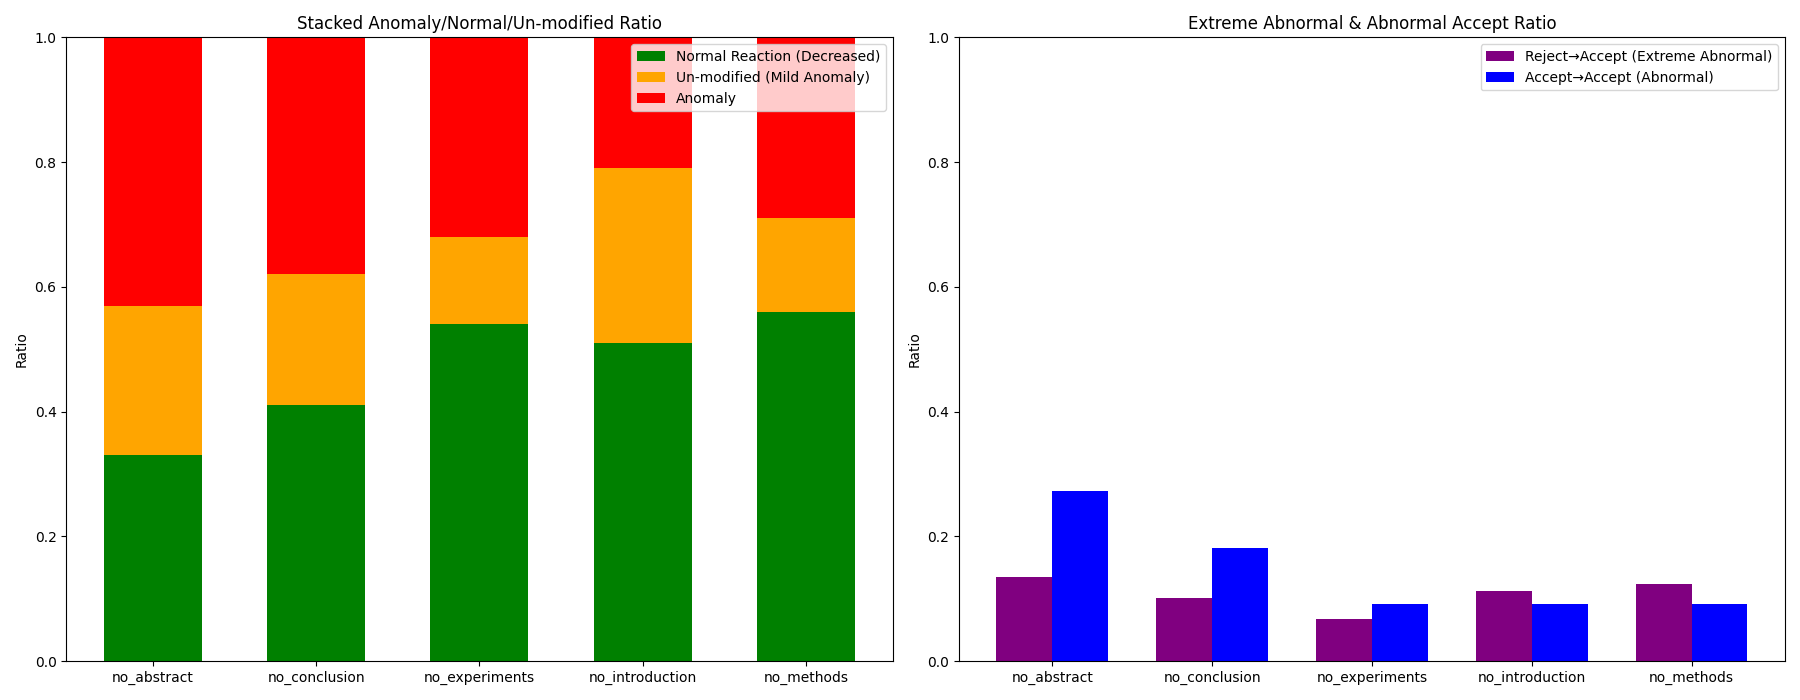
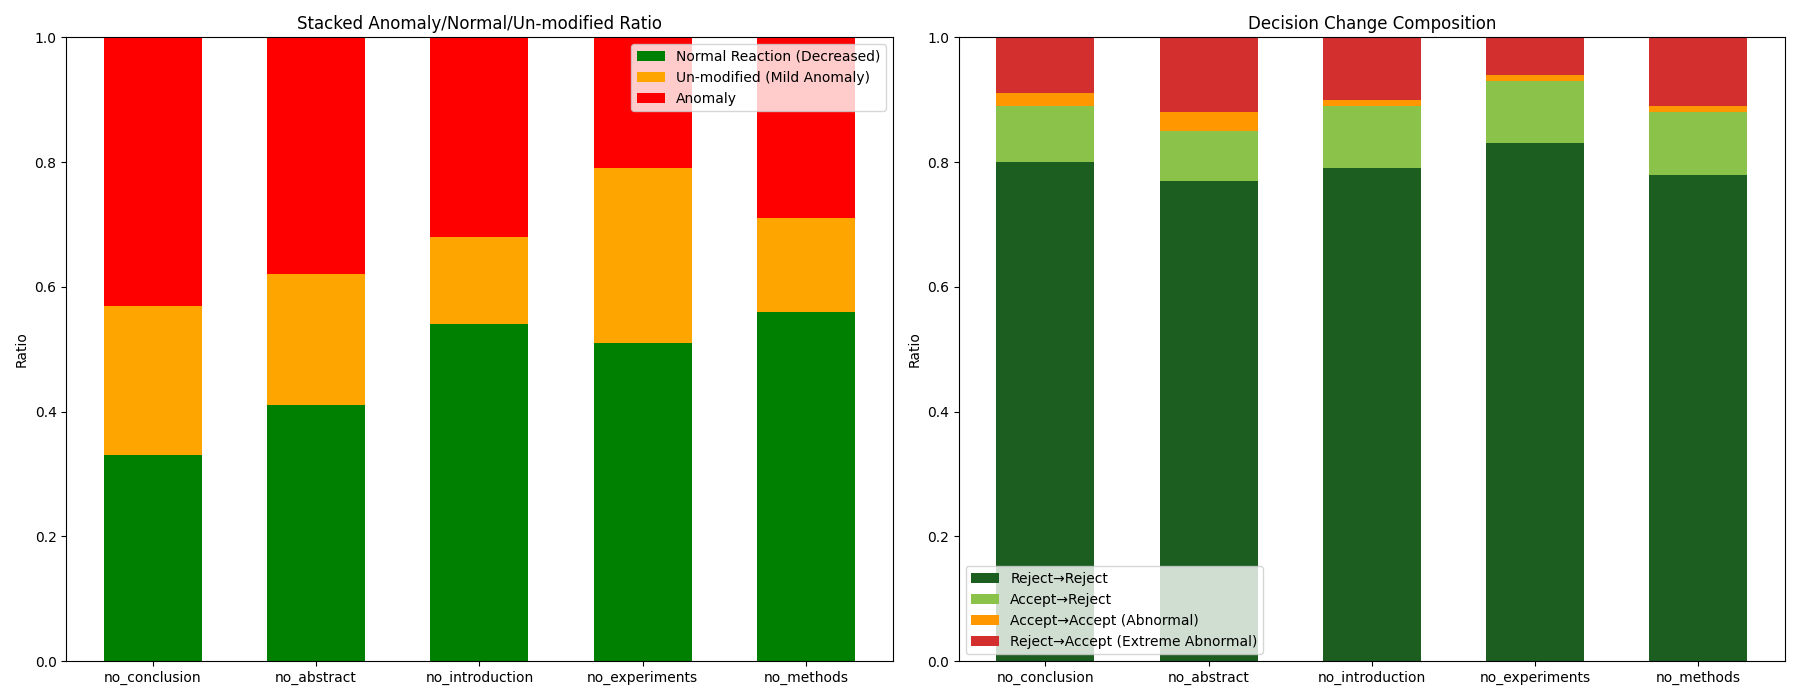
add project metadata, dependency files, analysis outputs, and documentation for attack evaluation and variant dataset processing

Changed region(s): [[0.5289, 0.0, 0.9956, 0.99], [0.1556, 0.96, 0.4044, 0.99], [0.0622, 0.96, 0.1244, 0.99]]

diff --git a/scripts/anomaly_ratio_stacked_bar.py b/scripts/anomaly_ratio_stacked_bar.py
@@ -122,12 +122,12 @@ with open(jsonl_path, 'r', encoding='utf-8') as f:
 df_dec = pd.DataFrame(rows)
 df_dec = df_dec[df_dec['rating'].notnull()]
 
-# 统计每种变体的 Reject->Accept 和 Accept->Accept
+# 统计每种变体的决策变化构成（re2re/ac2re/ac2ac/re2ac）
 variant_order = sorted(df_dec['variant_type'].unique(), key=lambda x: (x != 'original', x))
-extreme_abnormal_counts = {v: 0 for v in variant_order if v != 'original'}  # Reject->Accept
-abnormal_accept_counts = {v: 0 for v in variant_order if v != 'original'}    # Accept->Accept
-total_reject = {v: 0 for v in variant_order if v != 'original'}
-total_accept = {v: 0 for v in variant_order if v != 'original'}
+decision_change_counts = {
+    v: {'re2re': 0, 'ac2re': 0, 'ac2ac': 0, 're2ac': 0, 'total': 0}
+    for v in variant_order if v != 'original'
+}
 extreme_abnormal_cases = []
 abnormal_accept_cases = []
 
@@ -140,54 +140,68 @@ for base_id, group in df_dec.groupby('base_paper_id'):
         vt = row['variant_type']
         if vt == 'original':
             continue
-        # Reject->Accept
-        if orig_dec == 'Reject':
-            total_reject[vt] += 1
-            if row['decision'] == 'Accept':
-                extreme_abnormal_counts[vt] += 1
-                extreme_abnormal_cases.append({
-                    'base_paper_id': base_id,
-                    'variant_type': vt,
-                    'orig_decision': orig_dec,
-                    'variant_decision': row['decision'],
-                    'rating': row['rating']
-                })
-        # Accept->Accept
-        if orig_dec == 'Accept':
-            total_accept[vt] += 1
-            if row['decision'] == 'Accept':
-                abnormal_accept_counts[vt] += 1
-                abnormal_accept_cases.append({
-                    'base_paper_id': base_id,
-                    'variant_type': vt,
-                    'orig_decision': orig_dec,
-                    'variant_decision': row['decision'],
-                    'rating': row['rating']
-                })
+        var_dec = row['decision']
+        if orig_dec == 'Reject' and var_dec == 'Reject':
+            decision_change_counts[vt]['re2re'] += 1
+        elif orig_dec == 'Accept' and var_dec == 'Reject':
+            decision_change_counts[vt]['ac2re'] += 1
+        elif orig_dec == 'Accept' and var_dec == 'Accept':
+            decision_change_counts[vt]['ac2ac'] += 1
+            abnormal_accept_cases.append({
+                'base_paper_id': base_id,
+                'variant_type': vt,
+                'orig_decision': orig_dec,
+                'variant_decision': var_dec,
+                'rating': row['rating']
+            })
+        elif orig_dec == 'Reject' and var_dec == 'Accept':
+            decision_change_counts[vt]['re2ac'] += 1
+            extreme_abnormal_cases.append({
+                'base_paper_id': base_id,
+                'variant_type': vt,
+                'orig_decision': orig_dec,
+                'variant_decision': var_dec,
+                'rating': row['rating']
+            })
+        else:
+            continue
+        decision_change_counts[vt]['total'] += 1
 
-# 计算比例
-extreme_abnormal_ratio = []
-abnormal_accept_ratio = []
-for vt in variant_order:
-    if vt == 'original':
-        continue
-    total_r = total_reject[vt]
-    total_a = total_accept[vt]
-    extreme_abnormal_ratio.append(extreme_abnormal_counts[vt]/total_r if total_r else 0)
-    abnormal_accept_ratio.append(abnormal_accept_counts[vt]/total_a if total_a else 0)
+# 计算比例（分母为该变体下全部有效样本）
+non_original_variants = [vt for vt in variant_order if vt != 'original']
+labels = [vt for vt in severity_order if vt in non_original_variants] + \
+         [vt for vt in non_original_variants if vt not in severity_order]
+re2re_ratio = []
+ac2re_ratio = []
+ac2ac_ratio = []
+re2ac_ratio = []
+for vt in labels:
+    total = decision_change_counts[vt]['total']
+    if total == 0:
+        re2re_ratio.append(0)
+        ac2re_ratio.append(0)
+        ac2ac_ratio.append(0)
+        re2ac_ratio.append(0)
+    else:
+        re2re_ratio.append(decision_change_counts[vt]['re2re']/total)
+        ac2re_ratio.append(decision_change_counts[vt]['ac2re']/total)
+        ac2ac_ratio.append(decision_change_counts[vt]['ac2ac']/total)
+        re2ac_ratio.append(decision_change_counts[vt]['re2ac']/total)
+
+# 兼容后续组合图中原变量名
+extreme_abnormal_ratio = re2ac_ratio
+abnormal_accept_ratio = ac2ac_ratio
 
 # 绘图
-labels = [vt for vt in variant_order if vt != 'original']
-bar_width = 0.35
-x = np.arange(len(labels))
+bar_width = 0.6
 fig, ax = plt.subplots(figsize=(10,6))
-rects1 = ax.bar(x-bar_width/2, extreme_abnormal_ratio, bar_width, label='Reject→Accept (Extreme Abnormal)', color='purple')
-rects2 = ax.bar(x+bar_width/2, abnormal_accept_ratio, bar_width, label='Accept→Accept (Abnormal)', color='blue')
+ax.bar(labels, re2re_ratio, bar_width, label='Reject→Reject', color='#1b5e20')  # dark green
+ax.bar(labels, ac2re_ratio, bar_width, bottom=re2re_ratio, label='Accept→Reject', color='#8bc34a')  # light green
+ax.bar(labels, ac2ac_ratio, bar_width, bottom=np.array(re2re_ratio)+np.array(ac2re_ratio), label='Accept→Accept (Abnormal)', color='#ff9800')  # orange
+ax.bar(labels, re2ac_ratio, bar_width, bottom=np.array(re2re_ratio)+np.array(ac2re_ratio)+np.array(ac2ac_ratio), label='Reject→Accept (Extreme Abnormal)', color='#d32f2f')  # red
 ax.set_ylabel('Ratio')
 ax.set_ylim(0,1)
-ax.set_title('Extreme Abnormal (Reject→Accept) and Abnormal Accept (Accept→Accept) Ratio by Variant Type')
-ax.set_xticks(x)
-ax.set_xticklabels(labels)
+ax.set_title('Decision Change Composition by Variant Type')
 ax.legend()
 plt.tight_layout()
 plt.savefig(f'{outdir}/extreme_abnormal_accept_ratio_by_variant.png')
@@ -208,15 +222,14 @@ axes[0].set_ylabel('Ratio')
 axes[0].set_ylim(0,1)
 axes[0].set_title('Stacked Anomaly/Normal/Un-modified Ratio')
 axes[0].legend()
-# 右侧：Reject→Accept/Accept→Accept异常比例分组柱状图
-x = np.arange(len(labels))
-axes[1].bar(x-bar_width/2, extreme_abnormal_ratio, bar_width, label='Reject→Accept (Extreme Abnormal)', color='purple')
-axes[1].bar(x+bar_width/2, abnormal_accept_ratio, bar_width, label='Accept→Accept (Abnormal)', color='blue')
+# 右侧：决策变化构成堆叠柱状图（交通灯顺序）
+axes[1].bar(labels, re2re_ratio, 0.6, label='Reject→Reject', color='#1b5e20')
+axes[1].bar(labels, ac2re_ratio, 0.6, bottom=re2re_ratio, label='Accept→Reject', color='#8bc34a')
+axes[1].bar(labels, ac2ac_ratio, 0.6, bottom=np.array(re2re_ratio)+np.array(ac2re_ratio), label='Accept→Accept (Abnormal)', color='#ff9800')
+axes[1].bar(labels, re2ac_ratio, 0.6, bottom=np.array(re2re_ratio)+np.array(ac2re_ratio)+np.array(ac2ac_ratio), label='Reject→Accept (Extreme Abnormal)', color='#d32f2f')
 axes[1].set_ylabel('Ratio')
 axes[1].set_ylim(0,1)
-axes[1].set_title('Extreme Abnormal & Abnormal Accept Ratio')
-axes[1].set_xticks(x)
-axes[1].set_xticklabels(labels)
+axes[1].set_title('Decision Change Composition')
 axes[1].legend()
 plt.tight_layout()
 plt.savefig(f'{outdir}/combined_variant_analysis.png')
